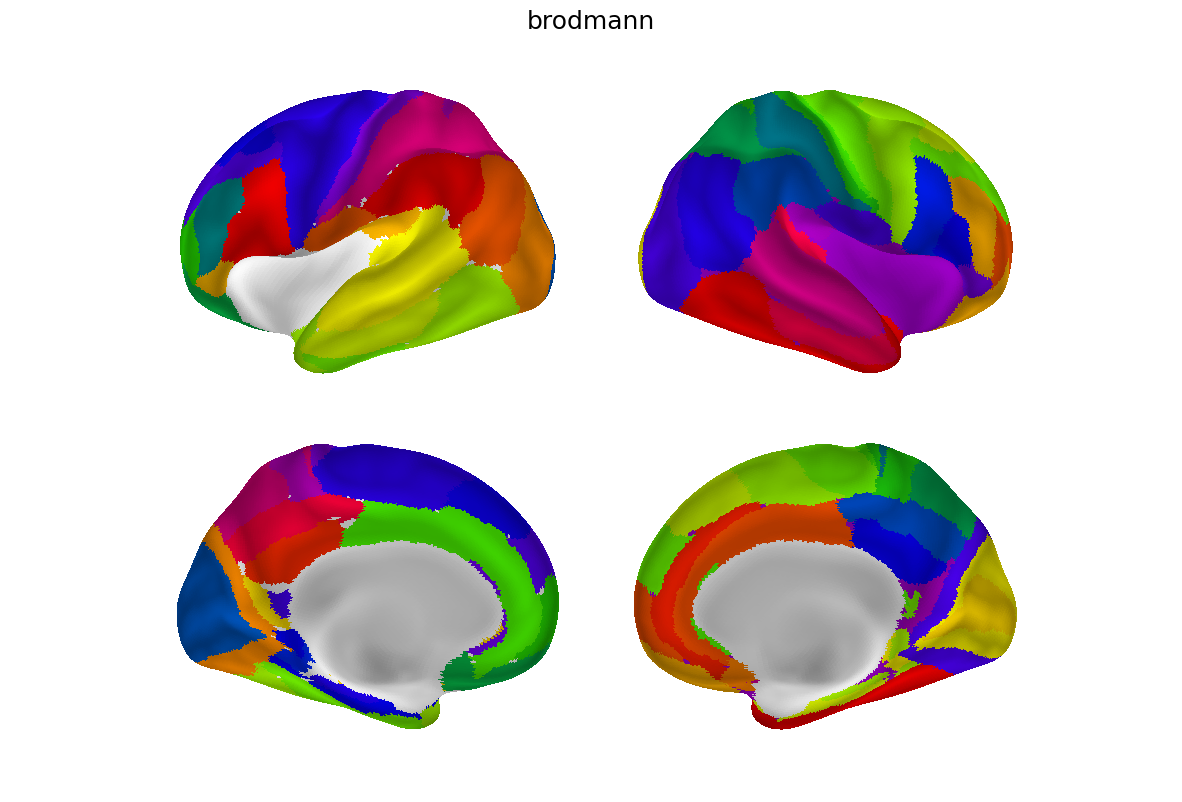
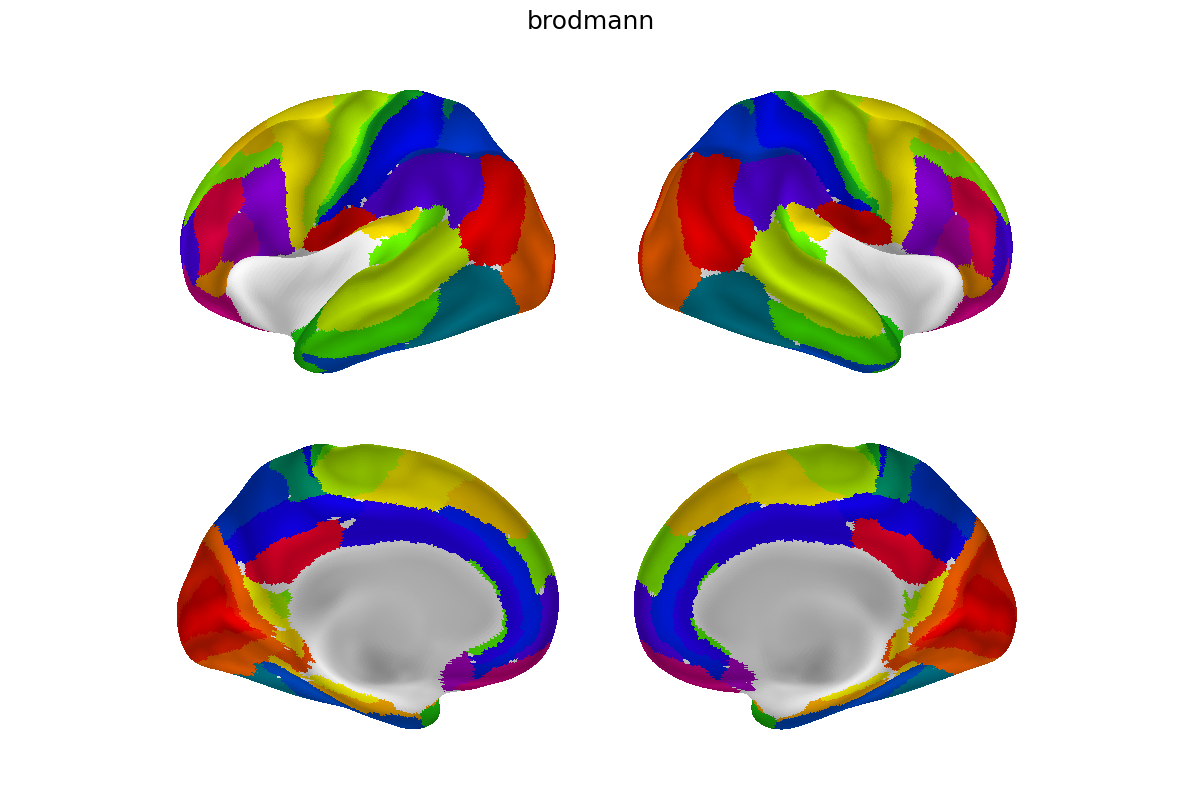
update

diff --git a/setup/process_parcs.py b/setup/process_parcs.py
@@ -15,8 +15,11 @@ def proc_balsa(save_dr, mw_mask):
     gordon[mw_mask] = 0
     save_loc = os.path.join(save_dr, 'gordon.npy')
     np.save(save_loc, gordon)
-    
-    brodmann = conv_to_array_32k_space('../raw/gordon_balsa/Human.Brodmann09.32k_fs_LR.dlabel.nii')
+
+    # Original medial wall is saved under 1, change to 0
+    brodmann = nib.load('../raw/gordon_balsa/Human.Brodmann09.32k_fs_LR.dlabel.nii')
+    brodmann = np.squeeze(brodmann.get_fdata())
+    brodmann[brodmann==1] = 0
     brodmann[mw_mask] = 0
     save_loc = os.path.join(save_dr, 'brodmann.npy')
     np.save(save_loc, brodmann)
